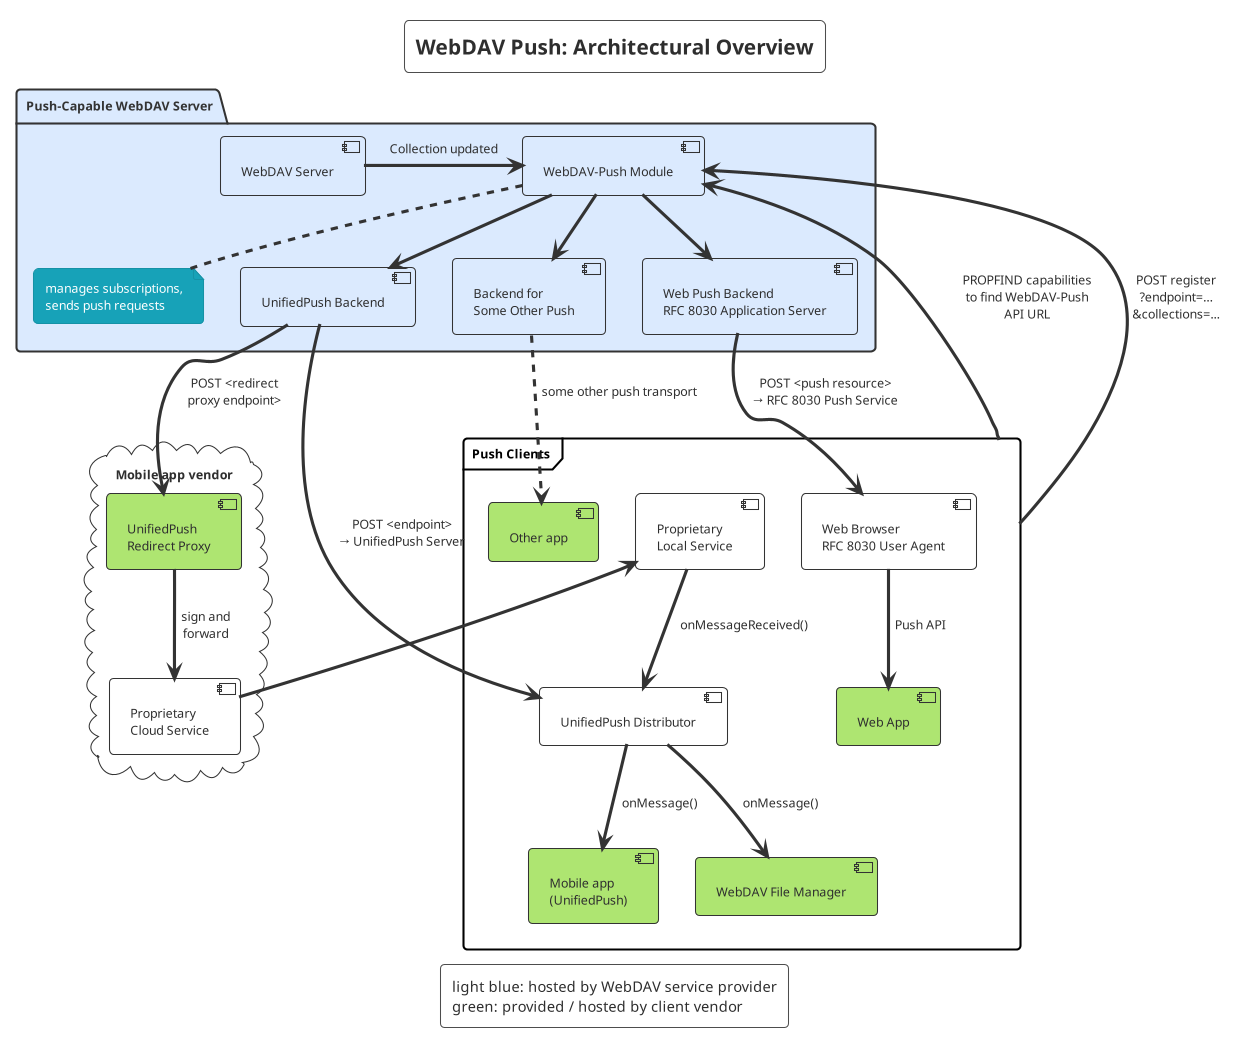
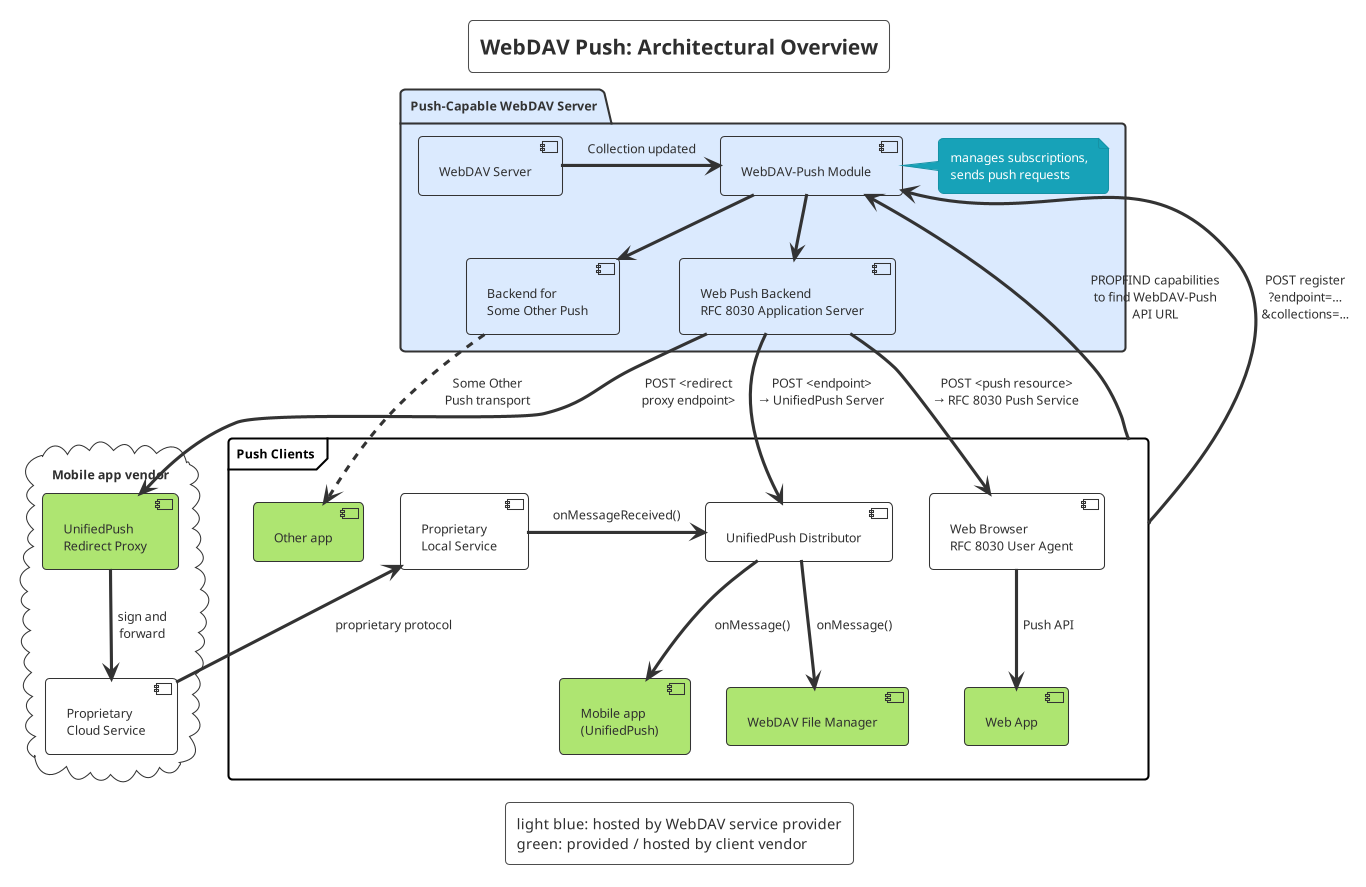
Clarify that UnifiedPush is a compatible subset of Web Push

Changed region(s): [[0.0, 0.0, 0.983, 1.0], [0.2458, 0.7001, 0.3379, 0.7306]]

diff --git a/webdav-push-draft.md b/webdav-push-draft.md
@@ -1,4 +1,4 @@
-WebDAV Push
+	WebDAV Push
 
 Draft Document (In Work)
 
@@ -45,10 +45,7 @@ The server must be prepared to handle errors. For instance, if a push transport 
 
 WebDAV-Push isn't restricted to specific push services and allows clients to specify which push services they support. This allows upcoming push services to be used with WebDAV-Push.
 
-However, WebDAV-Push currently suggests to implement at least
-
-- UnifiedPush (see Appendix A) and
-- Web Push (see Appendix B).
+WebDAV-Push currently recommends to implement at least Web Push (see Appendix A).
 
 UnifiedPush is an open set of specifications and allows push notifications to be delivered
 over various transports.
@@ -121,7 +118,6 @@ Required information:
 
 - Collection to be subscribed
 - Push transport, including transport-specific details
-  - UnifiedPush: endpoint URL
   - Web Push: push resource URL
   - details for message encryption
 - Expiration? how long by default, min/max (24 h), server decides (and can impose limits)
@@ -148,12 +144,14 @@ Content-Type: application/xml; charset="utf-8"
 
 <?xml version="1.0" encoding="utf-8" ?>
 <push-subscribe xmlns="DAV:Push">
-  <transport>
-    <unified-push>
-      <endpoint>https://up.example.net/yohd4yai5Phiz1wi</endpoint>
-    </unified-push>
-  </transport>
-  <expires>Wed, 20 Dec 2023 10:03:31 GMT</expires>
+  <subscription>
+    <transport>
+      <unified-push>
+        <endpoint>https://up.example.net/yohd4yai5Phiz1wi</endpoint>
+      </unified-push>
+    </transport>
+    <expires>Wed, 20 Dec 2023 10:03:31 GMT</expires>
+  </subscription>
 </push-subscribe>
 
 HTTP/1.1 204 No Content
@@ -167,14 +165,16 @@ Content-Type: application/xml; charset="utf-8"
 
 <?xml version="1.0" encoding="utf-8" ?>
 <push-subscribe xmlns="DAV:Push">
-  <transport>
-    <web-push>
-      <push-resource>https://push.example.net/push/JzLQ3raZJfFBR0aqvOMsLrt54w4rJUsV</push-resource>
-      <public-key keyid="p256dh" dh="BL0IG_CKsOMezWrQPFQQDC39nRk88ROhz4Ytr9T-NZ7sbuHcjV0cVjoLtE7hR8c5USnRQ3LeKwuRxLvMVozJUt8" />
-      <authentication-secret>c9_nEWEAI8JUnB_uh5uEbQ</authentication-secret>
-    </web-push>
-  </transport>
-  <expires>Wed, 20 Dec 2023 10:03:31 GMT</expires>
+  <subscription>
+    <transport>
+      <web-push>
+        <push-resource>https://push.example.net/push/JzLQ3raZJfFBR0aqvOMsLrt54w4rJUsV</push-resource>
+        <public-key keyid="p256dh" dh="BL0IG_CKsOMezWrQPFQQDC39nRk88ROhz4Ytr9T-NZ7sbuHcjV0cVjoLtE7hR8c5USnRQ3LeKwuRxLvMVozJUt8" />
+        <authentication-secret>c9_nEWEAI8JUnB_uh5uEbQ</authentication-secret>
+      </web-push>
+    </transport>
+    <expires>Wed, 20 Dec 2023 10:03:31 GMT</expires>
+  </subscription>
 </push-subscribe>
 
 HTTP/1.1 204 No Content
@@ -227,30 +227,15 @@ What happens when information leaks
 What happens when some component is hacked
 
 
-# Appendix A: UnifiedPush Transport
+# Appendix A: Web Push Transport
 
-WebDAV-Push can be used with [UnifiedPush](https://unifiedpush.org/).
+WebDAV-Push can be used with Web Push (RFC 8030) to deliver WebDAV-Push notifications directly to compliant user agents, like Web browsers which come with their own push service infrastructure.
 
-## Transport description
-
-The XML element to specify the transport is `<unifiedpush>`, with these direct sub-elements:
-
-### Endpoint
-Property name: `url`
-Description: UnifiedPush endpoint URL
-Example: `<url>https://up.example.net/yohd4yai5Phiz1wi</url>`
-
-### Message Encryption
-
-> **TODO:** message encryption, if we even need it
-
-# Appendix B: Web Push Transport
-
-WebDAV-Push can be used with Web Push (RFC 8030) to deliver WebDAV-Push notifications directly to compliant user agents, typically Web browsers which come with operate their own RFC 8030 push services.
-
-Usage of Message Encryption (RFC 8291) and VAPID (RFC 8292) is recommended.
+Usage of Message Encryption (RFC 8291) and VAPID (RFC 8292) is currently recommended. If future protocol extensions become used by push services, WebDAV-Push servers should implement them as well, if applicable.
 
 > **RESEARCH:** Are subscription-sets of use for us?
+
+> **NOTE**: [UnifiedPush](https://unifiedpush.org/) (UP) is intentionally designed as a 100% compatible subset of Web Push. From a WebDAV server perspective, UP endpoints may used as Web Push resources. UP encryption?
 
 ## Transport description
 
@@ -259,7 +244,10 @@ The XML element to specify the transport is `<web-push>`, with these direct sub-
 ### Push Resource
 Name: `push-resource`
 Description: push resource URL as defined in RFC 8030
-Example: `<push-resource>https://push.example.net/push/JzLQ3raZJfFBR0aqvOMsLrt54w4rJUsV</push-resource>`
+Example:
+```
+<push-resource>https://push.example.net/push/JzLQ3raZJfFBR0aqvOMsLrt54w4rJUsV</push-resource>
+```
 
 ### Message Encryption
 
